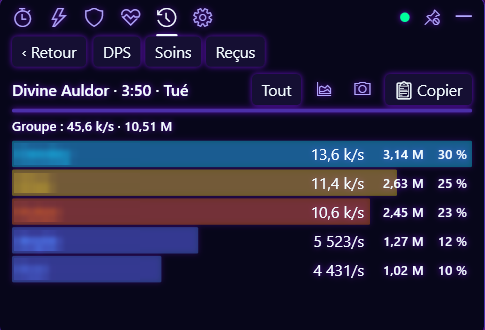
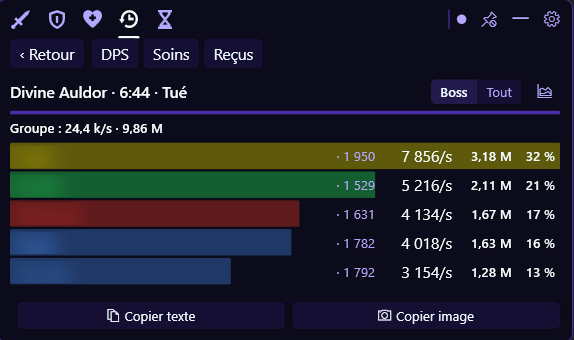
docs(site): 0.3.3 screenshots (meter, timers, curve) with blurred names

diff --git a/site/guide.html b/site/guide.html
@@ -59,7 +59,7 @@
 
 <h2 id="meters">Meters</h2>
 <p>Trois onglets : <strong>DPS</strong>, <strong>Dégâts reçus</strong> et <strong>Soins</strong>. Un clic sur un joueur ouvre le détail par compétence et, s'il est tombé, le récap de sa mort.</p>
-<figure class="shot"><img src="assets/shots/meter-neon.png" alt="Meter de dégâts d’un combat de boss, thème Néon, pseudos floutés" width="485" height="330" loading="lazy"><figcaption>Meter d’un combat (thème Néon)</figcaption></figure>
+<figure class="shot"><img src="assets/shots/meter-neon.png" alt="Meter de dégâts d’un combat de boss, en mode Boss, avec la puissance de combat après chaque nom, pseudos floutés" width="574" height="340" loading="lazy"><figcaption>Meter d’un combat, avec la puissance de combat</figcaption></figure>
 <p>Le sélecteur <strong>[Boss | Tout]</strong>, en haut du meter, bascule entre les seuls dégâts infligés au boss et l'ensemble des dégâts du combat. Ton choix est gardé au redémarrage et vaut aussi pour l'historique.</p>
 <p>Sous la liste, la barre d'actions regroupe <strong>Entraînement</strong>, <strong>Copier texte</strong> et <strong>Copier image</strong>. Hors combat, le meter affiche le <strong>dernier combat</strong>, avec un lien <strong>Voir dans l'historique</strong>.</p>
 <h3>Puissance de combat</h3>
@@ -68,7 +68,7 @@
 
 <h2 id="courbe">Courbe de DPS</h2>
 <p>L'évolution du DPS au fil du combat. La légende est cliquable : clique sur un joueur pour afficher ou masquer sa courbe. La barre d'actions est aussi disponible sous la courbe.</p>
-<figure class="shot"><img src="assets/shots/courbe.png" alt="Courbe de DPS du groupe sur un combat de 4 min 50, pseudos floutés" width="468" height="270" loading="lazy"><figcaption>Courbe de DPS du groupe</figcaption></figure>
+<figure class="shot"><img src="assets/shots/courbe.png" alt="Courbe de DPS du groupe sur un combat de 2 min 09, pseudos floutés" width="575" height="340" loading="lazy"><figcaption>Courbe de DPS du groupe</figcaption></figure>
 
 <h2 id="partage">Copie dans le chat et en image</h2>
 <p>Les boutons <strong>Copier texte</strong> et <strong>Copier image</strong> de la barre d'actions copient un résumé du combat : en texte, prêt à coller dans le chat du jeu, ou en image.</p>
@@ -85,7 +85,7 @@
 
 <h2 id="timers">Timers</h2>
 <p>Les temps d'apparition et de réinitialisation : failles, quotidiennes, hebdos, donjons, resets et boss de terrain, ainsi que le <strong>Festival Shugo</strong>, toutes les heures pile. Des alertes visuelles et sonores te préviennent avant l'événement.</p>
-<figure class="shot"><img src="assets/shots/timers.png" alt="Onglet Timers : faille, reset quotidien et reset hebdomadaire avec leurs comptes à rebours" width="483" height="335" loading="lazy"><figcaption>Timers et comptes à rebours</figcaption></figure>
+<figure class="shot"><img src="assets/shots/timers.png" alt="Onglet Timers : Festival Shugo, faille spatio-temporelle, reset quotidien et reset hebdomadaire avec leurs comptes à rebours" width="575" height="334" loading="lazy"><figcaption>Timers et comptes à rebours</figcaption></figure>
 <h3>Sons d'alerte</h3>
 <p>Chaque timer a son propre son, choisi dans Réglages › Timers avec un aperçu à la sélection : six sons intégrés (Carillon, Cloche, Double bip, Gong, Harpe, Alarme) ou ton propre fichier <code>.wav</code> ou <code>.mp3</code>. Si ce fichier a disparu, l'alerte joue le carillon, qui est aussi le son par défaut. Réglages › Son règle le volume et propose un bouton <strong>Tester</strong>.</p>
 <p>Un son personnalisé choisi avant la 0.3.3 reste utilisé pour tous les timers tant que tu ne leur choisis pas un son propre.</p>

diff --git a/site/index.html b/site/index.html
@@ -68,11 +68,11 @@
 </div>
 <div class="tab-panel" id="panel-meters" role="tabpanel" aria-labelledby="tab-meters" tabindex="0">
 <div><h3>Qui fait quoi, en direct</h3><p>DPS, soins et dégâts reçus par joueur. Un clic sur un joueur ouvre le détail par compétence et, s'il est tombé, le récap de sa mort.</p><p>Le sélecteur [Boss | Tout] bascule entre les dégâts faits au boss et l'ensemble du combat. Hors combat, le meter affiche le dernier combat.</p></div>
-<img src="assets/shots/meter-neon.png" alt="Meter de dégâts d’un combat de boss, thème Néon, pseudos floutés" width="485" height="330" loading="lazy">
+<img src="assets/shots/meter-neon.png" alt="Meter de dégâts d’un combat de boss, en mode Boss, avec la puissance de combat après chaque nom, pseudos floutés" width="574" height="340" loading="lazy">
 </div>
 <div class="tab-panel" id="panel-timers" role="tabpanel" aria-labelledby="tab-timers" tabindex="0">
 <div><h3>Ne rate plus un boss</h3><p>Failles, quotidiennes, hebdos, donjons, resets, boss de terrain et Festival Shugo. Une alerte visuelle et un son au choix te préviennent avant chaque événement.</p></div>
-<img src="assets/shots/timers.png" alt="Onglet Timers : faille, reset quotidien et reset hebdomadaire avec leurs comptes à rebours" width="483" height="335" loading="lazy">
+<img src="assets/shots/timers.png" alt="Onglet Timers : Festival Shugo, faille spatio-temporelle, reset quotidien et reset hebdomadaire avec leurs comptes à rebours" width="575" height="334" loading="lazy">
 </div>
 <div class="tab-panel" id="panel-historique" role="tabpanel" aria-labelledby="tab-historique" tabindex="0">
 <div><h3>Chaque combat, gardé 30 jours</h3><p>Les 100 derniers combats restent consultables. Tes records personnels sont signalés par un trophée.</p></div>
@@ -80,7 +80,7 @@
 </div>
 <div class="tab-panel" id="panel-courbe" role="tabpanel" aria-labelledby="tab-courbe" tabindex="0">
 <div><h3>Le combat, seconde par seconde</h3><p>L'évolution du DPS de chaque joueur au fil du combat. Clique sur un nom dans la légende pour afficher ou masquer sa courbe.</p></div>
-<img src="assets/shots/courbe.png" alt="Courbe de DPS du groupe sur un combat de 4 min 50, pseudos floutés" width="468" height="270" loading="lazy">
+<img src="assets/shots/courbe.png" alt="Courbe de DPS du groupe sur un combat de 2 min 09, pseudos floutés" width="575" height="340" loading="lazy">
 </div>
 </div>
 </section>
